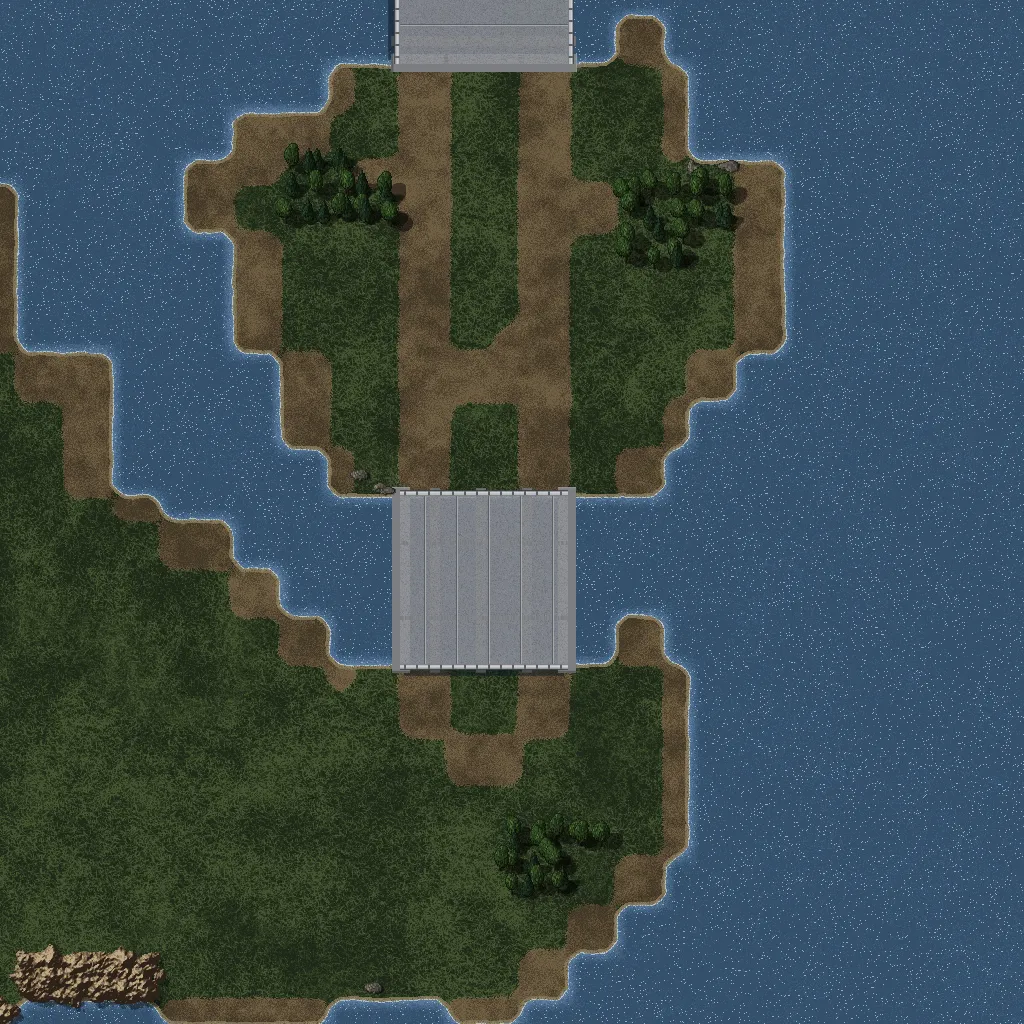
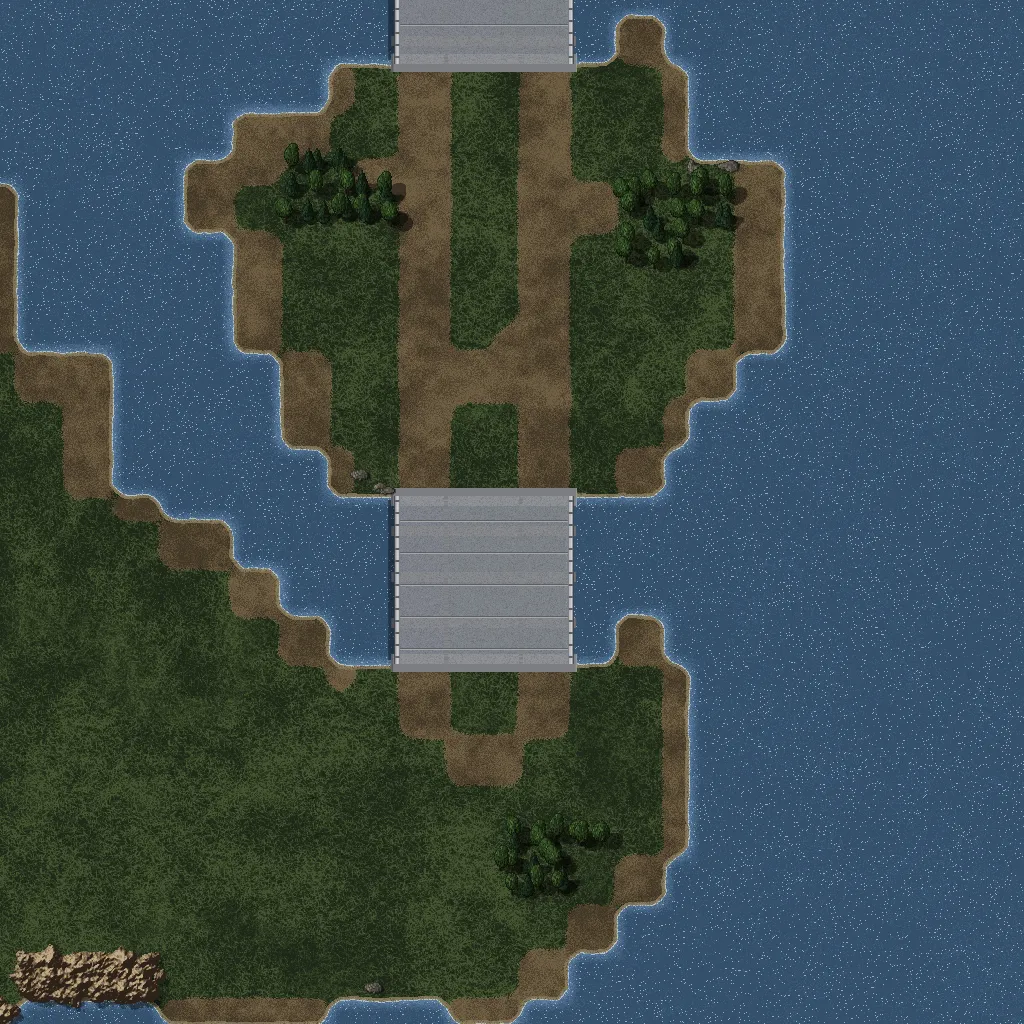
Twin Lakes: the short bridge span runs north-south like the others
A square run of bridge cells was always drawn west-east. It now follows the
water beside it. The other maps' baked ground is unchanged; Twin Lakes rebaked.

Claude-Session: https://claude.ai/code/session_01BkzzdgJ8SWBbhv1tPDfvKb

Changed region(s): [[0.375, 0.4688, 0.5625, 0.6875]]

diff --git a/src/world.js b/src/world.js
@@ -469,7 +469,16 @@ function genLayoutMap(m) {
       G.bridges.push({ a: { x: (cx + ux * u0) * CELL, y: (cy + uy * u0) * CELL }, b: { x: (cx + ux * u1) * CELL, y: (cy + uy * u1) * CELL }, w: w * CELL });
       continue;
     }
-    G.bridges.push(x1 - x0 >= y1 - y0
+    // A square run (Twin Lakes' short span) crosses the water: it runs north-south when the water is to its west and east.
+    let wide = x1 - x0 >= y1 - y0;
+    if (x1 - x0 === y1 - y0) {
+      const wet = (x, y) => (inMap(x, y) && T[idx(x, y)] === 4 ? 1 : 0);
+      let we = 0, ns = 0;
+      for (let y = y0; y < y1; y++) we += wet(x0 - 1, y) + wet(x1, y);
+      for (let x = x0; x < x1; x++) ns += wet(x, y0 - 1) + wet(x, y1);
+      wide = we <= ns;
+    }
+    G.bridges.push(wide
       ? { a: { x: x0 * CELL, y: (y0 + y1) / 2 * CELL }, b: { x: x1 * CELL, y: (y0 + y1) / 2 * CELL }, w: (y1 - y0 + 0.4) * CELL }
       : { a: { x: (x0 + x1) / 2 * CELL, y: y0 * CELL }, b: { x: (x0 + x1) / 2 * CELL, y: y1 * CELL }, w: (x1 - x0 + 0.4) * CELL });
   }

diff --git a/CLAUDE.md b/CLAUDE.md
@@ -403,6 +403,8 @@ share globals. Read this file first; the commit history explains every change in
 - Checked: all four starts connect; `node tools/sim/teams.js <repo> 1 10 twinlakes` (2 v 2 of computers: about 470 units by
   minute 8, every side sent a wave). The contributor confirmed the design is their own and chose to keep the name and the gem fields; the size is a first guess.
 - Its id is `twinlakes` because the owner's Lakeside already uses `lakes`.
+- Its south-east bridge's lower span is as long as it is wide (7 x 7 cells), and `genLayoutMap` drew a square run west-east. A square run now
+  runs north-south when the water is to its west and east (world.js; the other maps have no square runs, their bakes are unchanged).
 
 ## Map "Snowbound", the first 3 v 3 map (a winter map), and per-map sizes (2026.11.11.2; bridges, weather 2026.11.12)
 
